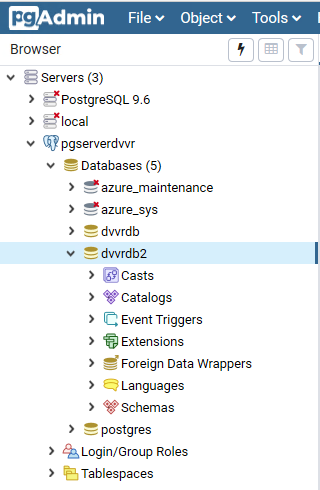
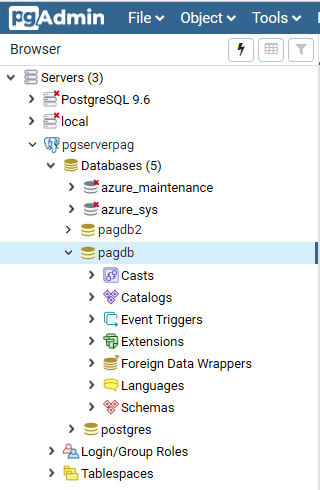
updates to images

Changed region(s): [[0.1875, 0.4592, 0.4688, 0.551], [0.0938, 0.2755, 0.4375, 0.3367]]

diff --git a/Azure Database for PostgreSQL Single Server/01 Create and connect to an Azure Database for PostgreSQL Single Server/readme.md b/Azure Database for PostgreSQL Single Server/01 Create and connect to an Azure Database for PostgreSQL Single Server/readme.md
@@ -41,7 +41,7 @@ The steps below show you how to create an Azure Database for PostgreSQL Single S
     
    ![](Media/image0004.png)
     
-   Select **Single Service**
+   Select **Single Server**
     
    ![](Media/image0005.png)
     
@@ -158,15 +158,9 @@ For instructions on how to install Azure CLI locally refer to [Install Azure CLI
     
     The Azure Database for PostgreSQL have been created and it is ready for use.
     
-    ![](Media/image0020.png)
+    ![](Media/image0010.png)
 
-1. Delete the Azure Database for PostgreSQL Single Server
-    
-   Delete the server you created during this exercise. 
-    
-   On the Overview Pane, select **Delete**. Type the server name and click on **Delete**
-    
-   ![](Media/image0021.png)
+
 
 Congratulations! You have successfully completed this exercise.
 
@@ -181,14 +175,13 @@ Azure Database for PostgreSQL creates a firewall at the server level. It prevent
 1. Connect to Microsoft Azure Portal
     
    Open Microsoft Edge and navigate to the [Azure Portal](http://ms.portal.azure.com) to connect to Microsoft Azure Portal. Login with your subscriptions credential.
-    
-   ![](Media/image0023.png)
+ 
 
 1. Go to your PostgreSQL Server
 
    Go to your Azure Database for PostgreSQL Single Server created in Exercise 1 (named pgserver[your name initials]) in any way you prefer to look for a resource on Azure. One method is: on the Server Resources (global) bar, type the name of your server, and select it when shown
 
-   ![](Media/image0024.png)
+   ![](Media/image0019.png)
 
 1. Configure firewall rule for your Azure Database for PostgreSQL Resource
 
@@ -232,8 +225,7 @@ When you create your Azure Database for PostgreSQL Single Server, a default data
     
   Open Microsoft Edge and navigate to the [Azure Portal](http://ms.portal.azure.com) to connect to Microsoft Azure Portal. Login with your subscriptions credential.
     
-   ![](Media/image0023.png)
-
+   
 1. Go to your PostgreSQL Server
 
    Go to your Azure Database for PostgreSQL Single Server in any way you prefer to look for a resource on Azure
@@ -259,8 +251,7 @@ There are several applications you can use to connect to your Azure Database for
 1. Connect to Microsoft Azure Portal
     
    Open Microsoft Edge and navigate to the [Azure Portal](http://ms.portal.azure.com) to connect to Microsoft Azure Portal. Login with your subscriptions credential.
-    
-   ![](Media/image0023.png)
+
 
 1. Open Azure Cloud Shell
     
@@ -293,7 +284,7 @@ There are several applications you can use to connect to your Azure Database for
    Example
 
    ```bash
-   psql --host=pgserverdvvr.postgres.database.azure.com --port=5432 --username=admpg@pgserverdvvr --dbname=postgres
+   psql --host=pgserverpag.postgres.database.azure.com --port=5432 --username=admpg@pgserverpag --dbname=postgres
    ```
     
    After you run the psql command with your own parameter values, you're prompted to enter the server admin password. This password is the same one that you provided when you created the server
@@ -394,8 +385,8 @@ pgAdmin is an open-source tool used with PostgreSQL. You can install pgAdmin fro
 
    >This step is optional. If you will complete the next Lab soon, do not delete it to save time.
 
-   On the Overview Pane, select **Delete**. Type the server name and click on **Delete**
+   On the Overview Pane, select **Delete**. Click on the agreement box and then click on **Delete**
 
-   ![](Media/image0049.png)
+   ![](Media/image0011.png)
 
 Congratulations!. You have successfully completed this exercise and the Lab.
